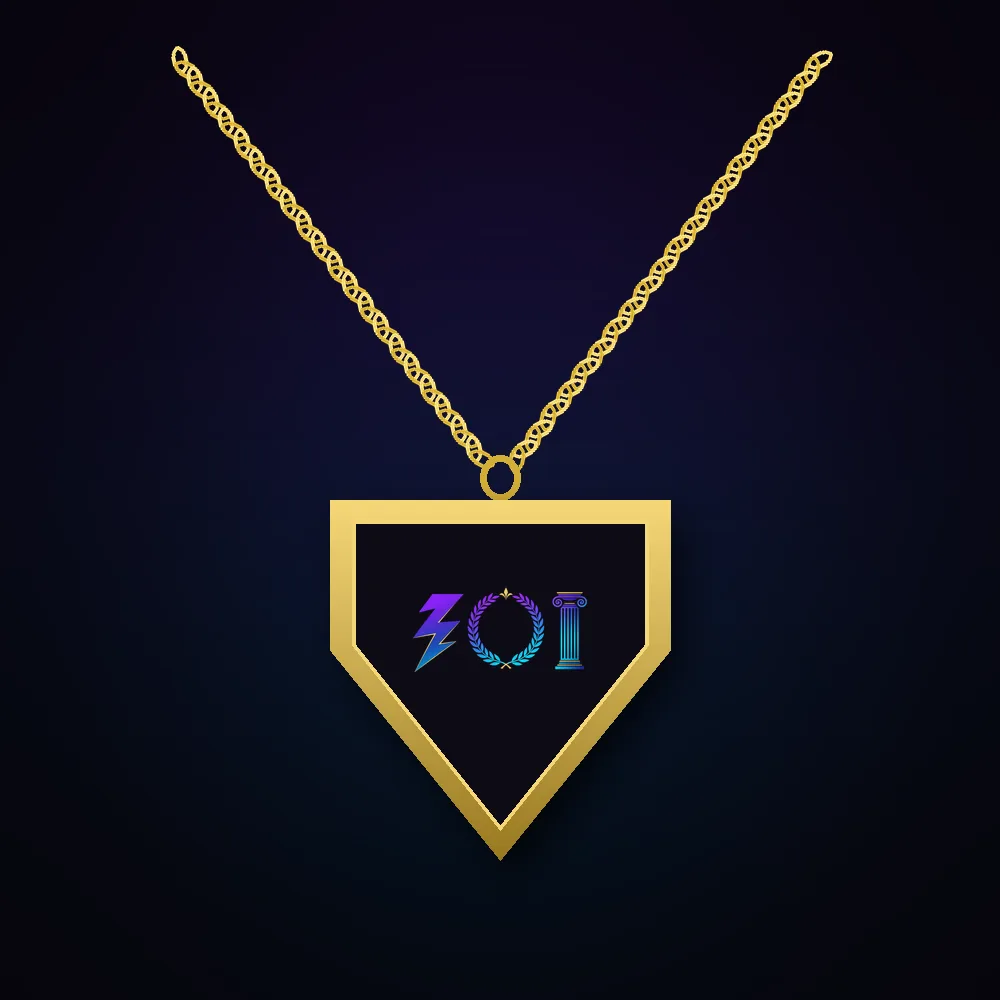
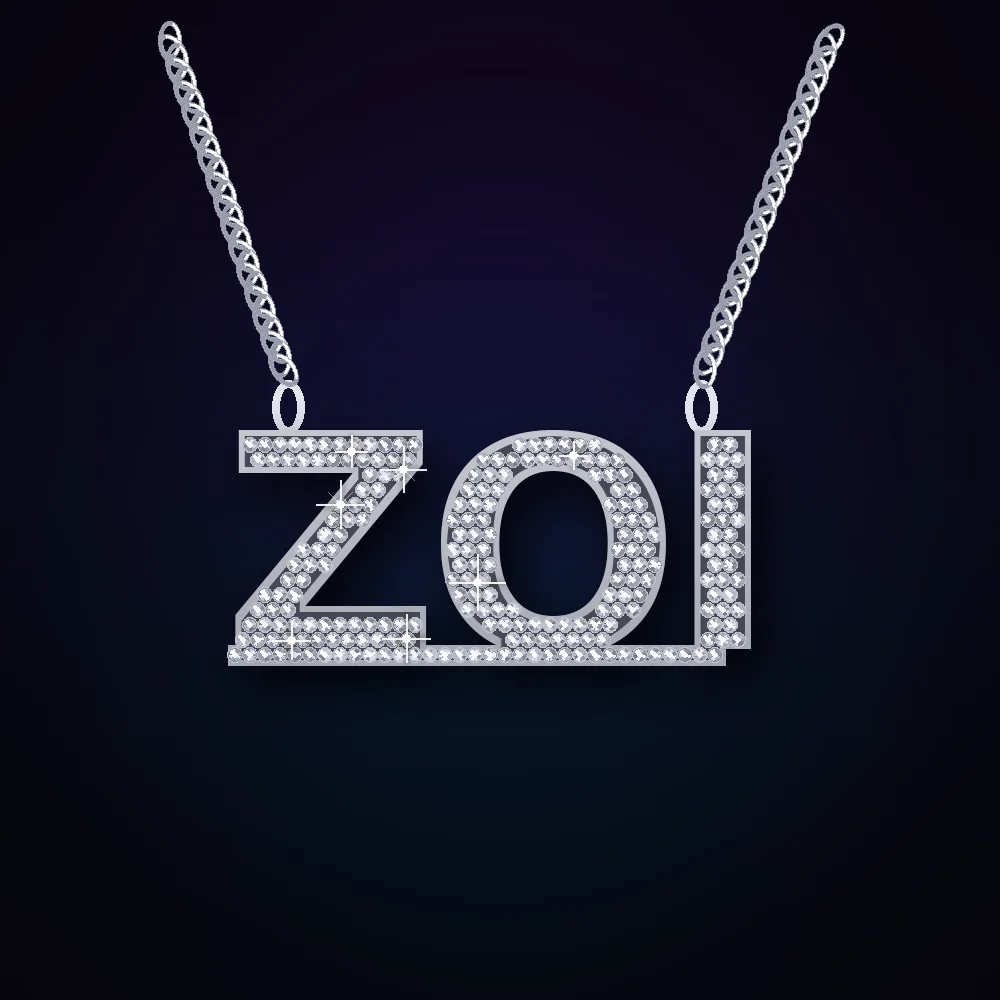
Shop: ZOI Iced Pendant

Changed region(s): [[0.155, 0.0, 0.837, 0.868]]

diff --git a/public/shop.html b/public/shop.html
@@ -27,7 +27,7 @@
  <div class="card product"><img src="/assets/shop/tumbler.webp" alt="ZOI Insulated Tumbler mockup" width="1000" height="1000" loading="lazy"><h3>ZOI Insulated Tumbler</h3><p>40 oz stainless tumbler with handle and straw lid, crest engraved.</p><p class="price">Price TBA</p><button class="btn" type="button" disabled>Coming soon</button></div>
  <div class="card product"><img src="/assets/shop/spinner.webp" alt="ZOI Metal Fidget Spinner mockup" width="1000" height="1000" loading="lazy"><h3>ZOI Metal Fidget Spinner</h3><p>Machined stainless spinner with gold-trimmed bearings and the crest engraved.</p><p class="price">Price TBA</p><button class="btn" type="button" disabled>Coming soon</button></div>
  <div class="card product"><img src="/assets/shop/stickers.webp" alt="Sticker Pack mockup" width="1000" height="1000" loading="lazy"><h3>Sticker Pack</h3><p>Crest, wordmark and ζωή die-cut stickers.</p><p class="price">Price TBA</p><button class="btn" type="button" disabled>Coming soon</button></div>
- <div class="card product flagship reverse"><img src="/assets/shop/pendant.webp" alt="ZOI Crest Pendant mockup" width="1000" height="1000" loading="lazy"><div class="info"><span class="badge">Featured</span><h3>ZOI Crest Pendant</h3><p>A small gold shield pendant carrying the ZOI crest — bolt, laurel and column — on a fine gold rope chain. Subtle, everyday, built to last.</p><p class="price">Price TBA</p><button class="btn" type="button" disabled>Coming soon</button></div></div>
+ <div class="card product flagship reverse"><img src="/assets/shop/pendant.webp" alt="ZOI Iced Pendant mockup" width="1000" height="1000" loading="lazy"><div class="info"><span class="badge">Featured</span><h3>ZOI Iced Pendant</h3><p>ZOI in bold block letters, pavé-set with stones on a white gold-tone nameplate and chain. One piece, full shine.</p><p class="price">Price TBA</p><button class="btn" type="button" disabled>Coming soon</button></div></div>
 </div>
 <p class="notify">Get notified when the shop drops: email <a href="mailto:hello@zoisports.com?subject=Notify%20me%20when%20the%20ZOI%20shop%20drops">hello@zoisports.com</a>.</p>
 <p class="small muted">Images are design mockups; final products may differ.</p></section>
